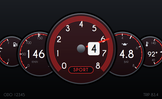
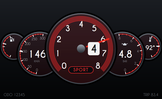
Fix to stay in dial space

Changed region(s): [[0.7099, 0.3333, 1.0, 0.7576], [0.0, 0.3333, 0.3086, 0.7576]]

diff --git a/Cluster.qml b/Cluster.qml
@@ -94,21 +94,21 @@ Item {
     // ---- far dials ----
     SideDial {
         id: fuelDial
-        x: 58-radius; y: 250-radius; z: 1
-        radius: 74
+        x: 68-radius; y: 226-radius; z: 1
+        radius: 64
         mode: cl.oMode; accent: cl.oAccent
         value: cl.fuel; minV: 0; maxV: 100
         startAng: 200; sweep: 140
-        labels: ["E", "", "F"]; steps: 8; majorEvery: 4; labelSize: 13
+        labels: []; steps: 8; majorEvery: 4; labelSize: 13
         hotFrom: 2
         valueText: cl.fuel.toFixed(0)+"%"; unitText: ""
-        valueSize: 30; valueX: -12; valueY: radius-6
+        valueSize: 28; valueX: -10; valueY: radius-12
         warn: cl.fuelWarn
         numberInNormalOnly: true
         numFont: numfont.name; labelFont: labfont.name
         // pump icon
         Canvas {
-            x: 80; y: 26; width: 22; height: 26
+            x: 44; y: 16; width: 22; height: 26
             property color c: cl.fuelWarn ? "#ff2d2d" : "#d0d6dd"
             onCChanged: requestPaint()
             onPaint: { var g=getContext("2d"); g.reset(); g.fillStyle=c; g.strokeStyle=c; g.lineWidth=2
@@ -118,21 +118,21 @@ Item {
     }
     SideDial {
         id: coolDial
-        x: 742-radius; y: 250-radius; z: 1
-        radius: 74
+        x: 732-radius; y: 226-radius; z: 1
+        radius: 64
         mode: cl.oMode; accent: cl.oAccent
         value: cl.coolant; minV: cl.coolmin; maxV: cl.coolmax
-        startAng: 20; sweep: 140
-        labels: [String(cl.coolmax.toFixed(0)), "", String(cl.coolmin.toFixed(0))]
+        startAng: 160; sweep: -140      // mirrored: cold at the bottom, hot at the top
+        labels: []
         steps: 8; majorEvery: 4; labelSize: 13
         hotFrom: 2
         valueText: cl.coolant.toFixed(0)+"°"; unitText: ""
-        valueSize: 30; valueX: 12; valueY: radius-6
+        valueSize: 28; valueX: 10; valueY: radius-12
         warn: cl.coolWarn
         numFont: numfont.name; labelFont: labfont.name
         // thermometer icon
         Canvas {
-            x: 46; y: 24; width: 22; height: 26
+            x: 62; y: 16; width: 22; height: 26
             property color c: cl.coolWarn ? "#ff2d2d" : "#d0d6dd"
             onCChanged: requestPaint()
             onPaint: { var g=getContext("2d"); g.reset(); g.fillStyle=c; g.strokeStyle=c; g.lineWidth=2
@@ -148,10 +148,11 @@ Item {
         radius: 108
         mode: cl.oMode; accent: cl.oAccent
         value: cl.speed; minV: 0; maxV: cl.speedmax
+        startAng: 190; sweep: 180         // only the part not hidden by the rev counter
         labels: [0,1,2,3,4,5,6].map(function(i){ return String(Math.round(cl.speedmax*i/6)) })
         steps: 24; majorEvery: 4; labelSize: 15
         valueText: Math.round(Math.max(0, cl.speed)).toFixed(0); unitText: cl.speedunit
-        valueSize: 50; valueX: -24
+        valueSize: 46; valueX: -14
         numFont: numfont.name; labelFont: labfont.name
         // dot above the number in Track
         Rectangle {
@@ -167,10 +168,11 @@ Item {
         radius: 108
         mode: cl.oMode; accent: cl.oAccent
         value: cl.oilp; minV: 0; maxV: cl.oilmax
+        startAng: 170; sweep: -180        // mirror of the speedometer
         labels: [0,1,2,3,4].map(function(i){ return String(Math.round(cl.oilmax*i/4)) })
         steps: 16; majorEvery: 4; labelSize: 15
         valueText: cl.oilp.toFixed(cl.oildec); unitText: cl.oilunit
-        valueSize: 50; valueX: 20
+        valueSize: 46; valueX: 14
         warn: cl.oilWarn
         numFont: numfont.name; labelFont: labfont.name
         // oil can icon

diff --git a/ArcRing.qml b/ArcRing.qml
@@ -27,7 +27,7 @@ Canvas {
         c.lineCap=cap
         for(var i=0;i<count;i++){
             c.beginPath()
-            c.arc(radius, radius, arcRadius-i*spacing, rad(startAng+sweep*fromF), rad(startAng+sweep*toF), false)
+            c.arc(radius, radius, arcRadius-i*spacing, rad(startAng+sweep*fromF), rad(startAng+sweep*toF), sweep<0)
             c.stroke()
         }
     }
